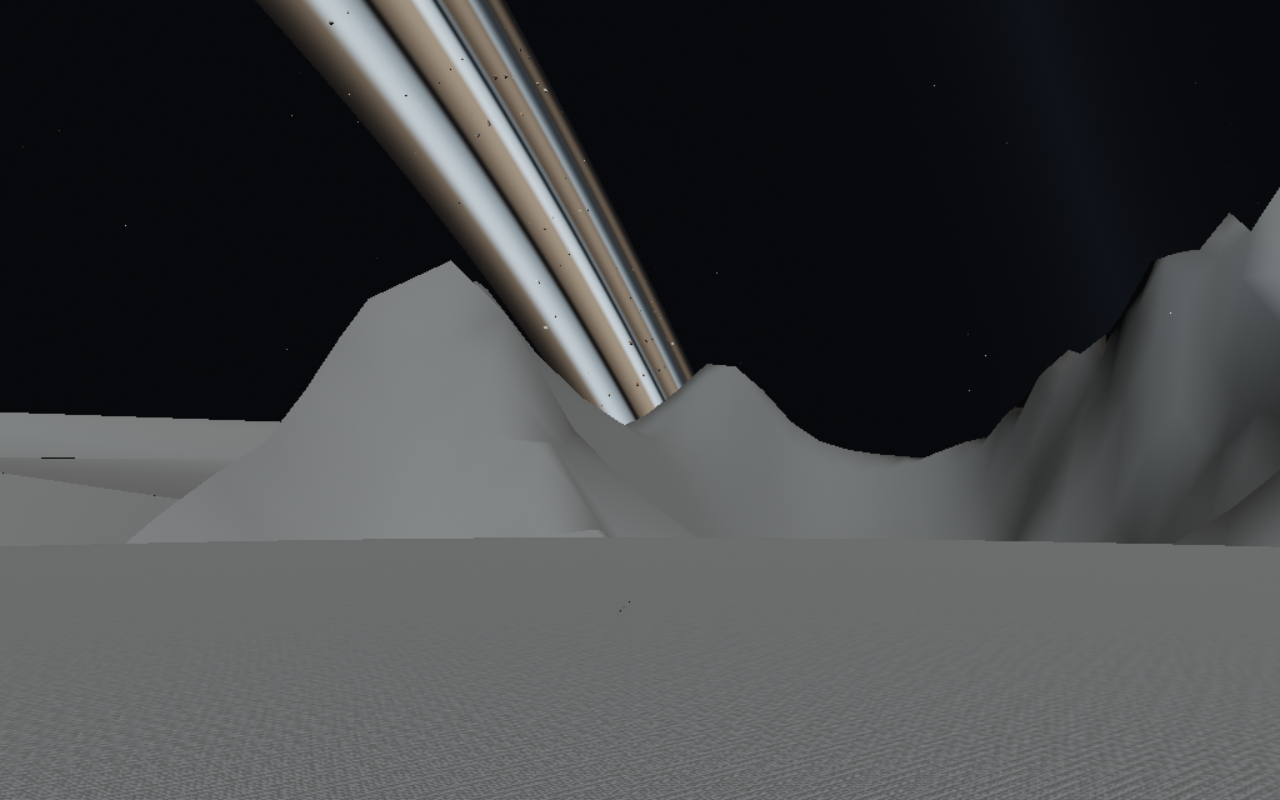
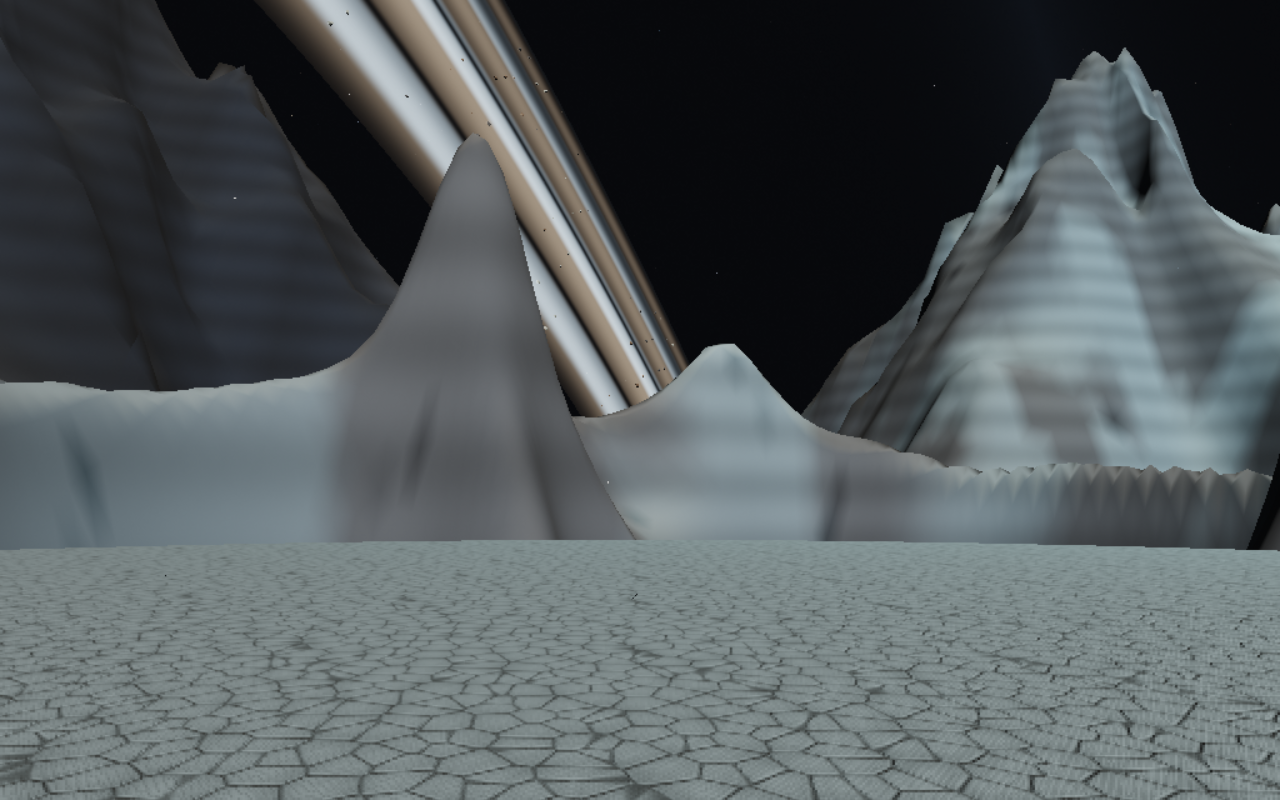
Stabilize lunar streaming and file verified Selene geology evidence

diff --git a/scripts/moon.spec.js b/scripts/moon.spec.js
@@ -69,7 +69,7 @@ test('lunar rings, crater slopes and sunlit ice render from orbit and the surfac
   });
   await page.waitForFunction(()=>window.starAgent.state.moon.lod>=3&&window.starAgent.state.moon.effects.terrainBuilds===0);await page.screenshot({path:`${evidence}/rings-orbit.png`});
   await page.evaluate(()=>window.starAgent.navigation.transitMoon(600));
-  await page.waitForFunction(()=>window.starAgent.state.moon.lod>=11);await page.waitForTimeout(1200);
+  await page.waitForFunction(()=>window.starAgent.state.moon.lod>=11&&window.starAgent.state.moon.effects.terrainBuilds===0);await page.waitForTimeout(1200);
   await page.screenshot({path:`${evidence}/crater-approach.png`});
   // Look aft from the landing shelf toward the new impact basin and ring arc.
   await page.evaluate(()=>{
@@ -77,7 +77,7 @@ test('lunar rings, crater slopes and sunlit ice render from orbit and the surfac
     const up=nav.normal,east=nav.position.clone().set(0,1,0).cross(up).normalize();
     nav.orientToward(nav.position.clone().addScaledVector(east,-1000).addScaledVector(up,120),up);
   });
-  await page.waitForFunction(()=>window.starAgent.state.moon.lod>=16);await page.waitForTimeout(2500);await page.screenshot({path:`${evidence}/craters-and-ice.png`});
+  await page.waitForFunction(()=>window.starAgent.state.moon.lod>=16&&window.starAgent.state.moon.effects.terrainBuilds===0);await page.waitForTimeout(2500);await page.screenshot({path:`${evidence}/craters-and-ice.png`});
   const a=await page.screenshot();await page.waitForTimeout(1200);const b=await page.screenshot();expect(a.equals(b)).toBe(false);
   const surface=await page.evaluate(()=>window.starAgent.state);expect(surface.moon.effects.iceParticles).toBeGreaterThan(0);
   // A low-flight survey shows the rift, crater floor and distinct mountain districts together.
@@ -86,7 +86,7 @@ test('lunar rings, crater slopes and sunlit ice render from orbit and the surfac
     const shelf=nav.position.clone();nav.position.addScaledVector(up,7000).addScaledVector(east,6500).addScaledVector(north,-7500);
     nav.orientToward(shelf.clone().addScaledVector(east,-1800),up);
   });
-  await page.waitForTimeout(5000);await page.screenshot({path:`${evidence}/geology-survey.png`});
+  await page.waitForFunction(()=>window.starAgent.state.moon.effects.terrainBuilds===0);await page.waitForTimeout(500);await page.screenshot({path:`${evidence}/geology-survey.png`});
   const rock=ringRock(5);
   await page.evaluate(({rock,normal})=>{
     const nav=window.starAgent.navigation,center=nav.position.clone().fromArray(window.starAgent.state.moon.position),target=center.clone().add(nav.position.clone().fromArray(rock.position));

diff --git a/tests/moon.test.js b/tests/moon.test.js
@@ -167,9 +167,20 @@ test('geological districts have distinct materials and labels at walking and fli
   assert.ok(ice.color[2]>rock.color[2]*4,'ice and obsidian read as distinct regions');
   assert.ok(copper.color[0]>copper.color[2]*3,'copper ejecta has a distinct warm mineral tint');
   assert.ok(frostwall.frost>.65,'Frostwall visibly carries ice');
-  const colors=Array.from({length:20},(_,i)=>sample(i-10,0).color[2]);
-  assert.ok(Math.max(...colors)-Math.min(...colors)>.03,'ground materials vary inside the landing shelf');
   // Region materials, like heights, stay continuous across a patch boundary.
   const a=generateMoonPatch({face:4,level:15,ix:13000,iy:18000}),b=generateMoonPatch({face:4,level:15,ix:13001,iy:18000});
   for(let y=0;y<=MOON_GRID;y++)assert.deepEqual(a.colors.slice((y*(MOON_GRID+1)+MOON_GRID)*3,(y*(MOON_GRID+1)+MOON_GRID)*3+3),b.colors.slice(y*(MOON_GRID+1)*3,y*(MOON_GRID+1)*3+3));
+});
+
+test('stationary lunar views finish streaming and retain culled siblings needed by visible parents',t=>{
+  let now=0;t.mock.method(performance,'now',()=>now);
+  const scene=new Scene(),material=new MeshBasicMaterial(),terrain=new MoonTerrain(scene,material);
+  const point=bodySurfacePoint(new Vector3(...MOON_LANDING_DIRECTION),SELENE,1.75);
+  try{
+    let frames=0;
+    do{now+=16;terrain.update(point,point);frames++;}while(terrain.buildsLastFrame&&frames<600);
+    assert.ok(frames<600,'a fixed view must settle');assert.ok(terrain.maxLevel>=16);
+    now+=10000;terrain.update(point,point);terrain.update(point,point);
+    assert.equal(terrain.buildsLastFrame,0,'cache eviction must not discard required siblings');
+  }finally{terrain.dispose();material.dispose();}
 });

diff --git a/src/moon-terrain.js b/src/moon-terrain.js
@@ -76,6 +76,10 @@ export class MoonTerrain {
       const split=node.level<(radius<MOON_RADIUS*12?3:2)||(node.level<MOON_MAX_LEVEL&&distance(node)<node.size*MOON_RADIUS*1.8);
       if(split){
         if(!node.children)node.children=[this.node(node.face,node.level+1,node.ix*2,node.iy*2),this.node(node.face,node.level+1,node.ix*2+1,node.iy*2),this.node(node.face,node.level+1,node.ix*2,node.iy*2+1),this.node(node.face,node.level+1,node.ix*2+1,node.iy*2+1)];
+        // All four siblings are required for parent replacement, even when one
+        // is horizon-culled. Retain these dependencies to avoid eviction/rebuild
+        // loops that repeatedly expose coarse fallback mountains.
+        for(const child of node.children)child.lastUsed=now;
         for(const child of [...node.children].sort((a,b)=>distance(a)-distance(b)))if(!child.mesh&&budget>0){this.build(child);budget--;}
         // A parent remains visible until every child has geometry, including
         // during a rapid descent or a cache miss after returning from Aeon.

diff --git a/src/moon-world.js b/src/moon-world.js
@@ -108,7 +108,9 @@ function relief(x,y,z){
   const basalt=Math.max(rock,obsidian,1-smooth(.30,.62,detail));
   // Materials are sampled at every terrain vertex, including centimetre LODs.
   // Ground identity must never depend on a kilometre-wide orbital texture pixel.
-  const veins=smooth(.47,.64,noise(x*35000+8,y*35000-5,z*35000+2));
+  // Broad mineral fields remain stable on distant meshes; sub-metre fractures
+  // belong in the mipmapped fragment material, not aliased vertex noise.
+  const veins=smooth(.47,.64,noise(x*720+8,y*720-5,z*720+2));
   const ice=Math.min(1,Math.max(capIce*.88,frost*(.55+veins*.45)+veins*.15*(1-obsidian)));
   const base=[.115,.135,.17].map((v,i)=>v*(1-basalt)+[.019,.028,.046][i]*basalt);
   const color=base.map((v,i)=>{

diff --git a/LUNAR-LANDSCAPE-HANDOFF.md b/LUNAR-LANDSCAPE-HANDOFF.md
@@ -6,16 +6,20 @@ sunlight-reflecting ice particles and majestic asteroid rings.
 Review: [PR #15](https://github.com/AvonMexicola/star-agent/pull/15).
 Branch: `feat/lunar-landscape`, based on merged `feat/visual-fidelity` f028a43.
 Isolated worktree: `/tmp/star-agent-lunar-landscape`.
-Local production preview: http://127.0.0.1:5178/ . Select Selene, L lands, F stands,
+Local production preview: http://127.0.0.1:5180/ . Select Selene, L lands, F stands,
 walk aft/open the hatch and explore. Keyboard/controller boarding remains physical.
-The preview is the user service `star-agent-lunar-landscape.service`.
+The preview is the user service `star-agent-selene-geology.service`.
 
 ## Delivered
 
-- Generator v3: stronger global relief, deeper crater bowls/rims/ejecta, 36 local
+- Generator v4: stronger global relief, deeper crater bowls/rims/ejecta, 36 local
   basins, broken peaks and basalt outcrops in the canonical walking heightfield.
 - A level 35 m landing shelf on a crater rim, blending into the terrain by 150 m.
-- Cool regolith/frost material with small-scale relief and height-dependent bands.
+- Distinct ice rift, dark obsidian peaks, copper ejecta and icy Frostwall; named
+  districts in the existing lunar location display. Per-vertex material regions
+  replace the coarse orbital color map; mipmapped fractures supply walking detail.
+- Much taller mountains with 6.2–7.6 km peak contributions and deeper local basins.
+- Required LOD siblings remain cached so a fixed view finishes streaming.
 - Four tilted ring bands with gaps, distance-filtered striations and lunar shadow.
 - 1,800 instanced, irregular asteroids with surface variation and lunar shadow;
   broad dust fades near the observer so a close approach resolves into rocks.
@@ -28,7 +32,8 @@ The preview is the user service `star-agent-lunar-landscape.service`.
 ## Merge boundaries
 
 Owned runtime files: `moon-world.js`, `moon-terrain.js`, `moon.js`, new
-`moon-rings.js`, new `moon-ice.js`. The two `main.js` hooks supply elapsed time/
+`moon-rings.js`, new `moon-ice.js`. The `main.js` hooks additionally import moonRegion and use it for the existing
+biome label/state, and supply elapsed time/
 inside-ship state to Moon and expose effect diagnostics. `atmosphere.js` has the
 small transparent-HDR composite fix required to retain rings/ice over stars.
 Logarithmic depth reconstruction is unchanged. Preserve these changes when merging
@@ -50,7 +55,7 @@ merge and deployment remain with the manager, following the established queue.
 
 ## Validation and limits
 
-All 75 unit cases pass; production build passes. Both dedicated production browser
+All 77 unit cases pass; production build passes. Both dedicated production browser
 cases pass: the full land/walk/jump/reboard/launch journey, and the orbital/surface/
 asteroid/Aeon render tour. The visual case was rerun after close-range refinement.
 No page/console errors. Numerical checks cover slopes >20°, terrain range/bounds,
@@ -69,4 +74,9 @@ metadata, decorative asteroid belt, artistic ice drift (no thermodynamic simulat
 no mining/asteroid impacts, no ring shadow cast onto the lunar ground, and no orbit
 simulation. The terrain is a heightfield, so it has no overhangs or caves.
 
-See `docs/selene-landscape.md` and the v3 section of `PLANET-PIPELINE-MEMORY.md`.
+See `docs/selene-landscape.md` and the v4 section of `PLANET-PIPELINE-MEMORY.md`.
+
+Preview correction: 5178 belonged to the opening-work lane; the earlier lunar
+service failed because the port was occupied. The dedicated geology service on
+5180 serves this branch's production dist. Do not replace opening's preview or
+copy its main/navigation files to integrate lunar modules.

diff --git a/docs/selene-landscape.md b/docs/selene-landscape.md
@@ -2,7 +2,11 @@
 
 Selene now has a crater-rim landing shelf overlooking a broad impact basin,
 fractured mountain ridges, smaller impact bowls, dark basalt outcrops and patches
-of frost. The terrain is physical: flight contact, walking and visible ground all
+of frost. Generator v4 adds much more extreme relief and recognizable districts:
+Crescent Rim is the landing shelf, Glass Rift is a winding blue-white ice channel,
+Obsidian Crown has dark mountain rock, Copper Ejecta is a warm impact deposit,
+and Frostwall carries pale ice. The existing location display names the district.
+The terrain is physical: flight contact, walking and visible ground all
 sample the same surface. The central shelf leaves room to land and use the ramp.
 
 Click **Selene**, press **L** to land, then **F** to leave the chair. Walk aft,
@@ -20,6 +24,8 @@ orbital evolution and ring shadows cast back onto the surface are not implemente
 
 ![Crater country beneath the ring](selene-crater-country.png)
 
+![Ice rift, dark mountains and copper impact deposits](selene-geology.png)
+
 Near the ground, lofted ice grains drift and flash in sunlight. They fade with
 distance, disappear inside the ship, and receive no direct light on the night side.
 The effect is an artistic particle layer; Selene still has no atmospheric drag or
@@ -32,12 +38,17 @@ particles are generated locally; no Star Citizen assets are used.
 
 ## Rendering and terrain contracts
 
-- Lunar generator version **3** changes the surface globally and keeps its own fixed
+- Lunar generator version **4** changes the surface globally and keeps its own fixed
   seed. Aeon's URL seed does not change the moon.
 - The terrain broad-phase bound is **16,000 m** above the lunar reference sphere.
   The landing site remains the same direction but now sits on a different heightfield.
 - Ninety-six global impact features are joined by 36 local craters and three broken
   peaks around the exploration site. Local basalt outcrops are also heightfield relief.
+- Surface colors are sampled directly into patch vertices. Broad mineral masks
+  distinguish districts; mipmapped triplanar fractured stone resolves walking detail.
+  The old kilometre-per-pixel global color texture is no longer used.
+- Required child meshes survive cache eviction even when horizon-culled. Visual
+  checks wait for streaming to settle before judging mountain silhouettes.
 - Patch normals reuse a one-cell sampling halo, so a patch's floor and shading agree
   without recomputing the generator four extra times at each vertex.
 - Six quadtree roots retain parents and skirts as children load. Nearby orbital views
@@ -72,7 +83,7 @@ Read [the planet pipeline memory](../PLANET-PIPELINE-MEMORY.md) for the broader
 architecture and [the lunar handoff](../LUNAR-LANDSCAPE-HANDOFF.md) for integration.
 
 
-Validation record: 75 unit cases and production build pass. Both production lunar
+Validation record: 77 unit cases and production build pass. Both production lunar
 browser cases pass, including the physical exploration journey and return to Aeon.
 The render tour was repeated after the final close-range ring/material refinement.
 Curated images use Chromium 151.0.7922.173, ANGLE/Vulkan SwiftShader, 1280×800 at

diff --git a/PLANET-PIPELINE-MEMORY.md b/PLANET-PIPELINE-MEMORY.md
@@ -360,3 +360,45 @@ exclusion margin. The ring is decorative and is not a new travel target or colli
 hazard. Mining, moving orbital bodies, terrain deformation, particle thermodynamics,
 ring shadows on the lunar surface and rigid-body asteroid impacts remain future work.
 For merge ownership, review results and screenshots use `LUNAR-LANDSCAPE-HANDOFF.md`.
+
+
+## Surface identity and extreme relief — 2026-09-06, generator v4
+
+Cees found Selene visually uniform and difficult to navigate by landmarks. Two
+causes were identified: the supplied preview address (5178) served opening-work,
+and v3's 1024-wide global albedo map represented kilometres per pixel on foot.
+Always verify the service working directory, successful startup and served asset
+hash against the built dist; HTTP 200 alone does not identify a branch.
+The lunar production preview now has its own star-agent-selene-geology service
+at http://127.0.0.1:5180/; opening's server remains untouched.
+
+V4 removes the orbital albedo texture dependency. moonSurface returns linear RGB
+material colors shared by terrain vertices and skirts. Fixed geographic masks
+produce dark Obsidian Crown, blue-white Glass Rift, Copper Ejecta and icy Frostwall.
+moonRegion names those districts plus Crescent Rim/Basin, Twin Spires and the
+highlands in the existing lunar biome label/state. Labels do not teleport players.
+Broad color fields avoid aliasing on distant meshes; sub-metre detail uses a
+periodic, mipmapped triplanar fracture/relief texture. Do not sample sub-metre noise
+only at distant terrain vertices: this produces a patchwork grid when interpolated.
+
+The canonical heightfield adds a winding 180 m ice-fault trough, deepens local
+impact bowls, and raises three mountain groups with 6.2–7.6 km contributions.
+Peaks are several kilometres from the shelf so the sky and ring remain visible.
+The 35 m level landing area, shared walking floor, low gravity and physical ramp
+remain. The conservative 16 km upper bound and travel exclusion contract remain.
+Heightfield geometry still cannot form overhangs or caves.
+
+Streaming lesson: horizon-culled siblings still form part of a visible parent's
+all-four-children replacement dependency. Evicting them repeatedly rebuilt meshes
+and exposed coarse mountain fallbacks. Mark required siblings recently used, even
+when they are culled. A regression advances the cache clock beyond expiry and
+checks a stationary view requires zero new builds. Visual tours wait for zero
+terrain builds before taking surface/survey evidence; maximum LOD alone only
+proves that some nearby patches are loaded, not the mountain landscape.
+
+Verification covers distinct material/region identities, shared material edges,
+more than 7.5 km local relief, collision/landing/walking, cache stability and actual
+Chromium shaders. Full suite: 77 unit cases across nine test files. Production
+lunar journey and render tour pass; the final shader/cache refinements receive a
+new render tour. Evidence includes docs/selene-geology.png and updated crater view.
+Use LUNAR-LANDSCAPE-HANDOFF.md and PR #15 for integration boundaries and delivery.

diff --git a/HANDOFF.md b/HANDOFF.md
@@ -466,3 +466,27 @@ lunar tests and evidence/docs; main.js changes only lunar biome label/diagnostic
 (the lunar service failed on its occupied port). Will use dedicated port 5180,
 leaving opening preview intact. Implement canonical contrasting geological regions,
 glacial channels and larger mountain relief; verify rendered surface and landing.
+
+
+## UPDATED: #15 — distinct Selene geology and extreme relief (Astra, 2026-09-06)
+
+User follow-up is implemented on feat/lunar-landscape in /tmp/star-agent-lunar-landscape.
+Generator v4 supplies named districts, fractured ground, blue-white Glass Rift,
+dark Obsidian Crown, Copper Ejecta and icy Frostwall. Local sampled elevation range
+is 8,980 m (−2,927 to +6,053 m relative to lunar radius), with the safe landing shelf
+and shared collision/walking heightfield retained. Required LOD siblings now stay
+cached: a fixed view settles instead of rebuilding horizon-culled dependencies.
+
+Corrected preview: http://127.0.0.1:5180/ — star-agent-selene-geology.service.
+Verified final served asset index-DB4-R7TB.js matches the browser-tested dist.
+Earlier 5178 claim was incorrect: opening-work owns that port, and the lunar service
+failed there. No shared runtime sources or other preview services were replaced.
+
+77 unit cases across nine files pass; build and physical lunar journey pass.
+Final material/cache changes were rechecked in the full visual tour with zero
+page/console errors and zero terrain builds at the recorded surface view.
+Evidence: docs/selene-geology.png, docs/selene-crater-country.png and evidence JSON.
+PLANET-PIPELINE-MEMORY.md v4 update is filed on PR #15 for Fable. main.js integration
+now also imports moonRegion for the existing lunar biome label/state. Preserve other
+lanes' main/UI changes during merge. Manager review/merge/deployment remain pending;
+this local handoff does not assert a read receipt.
